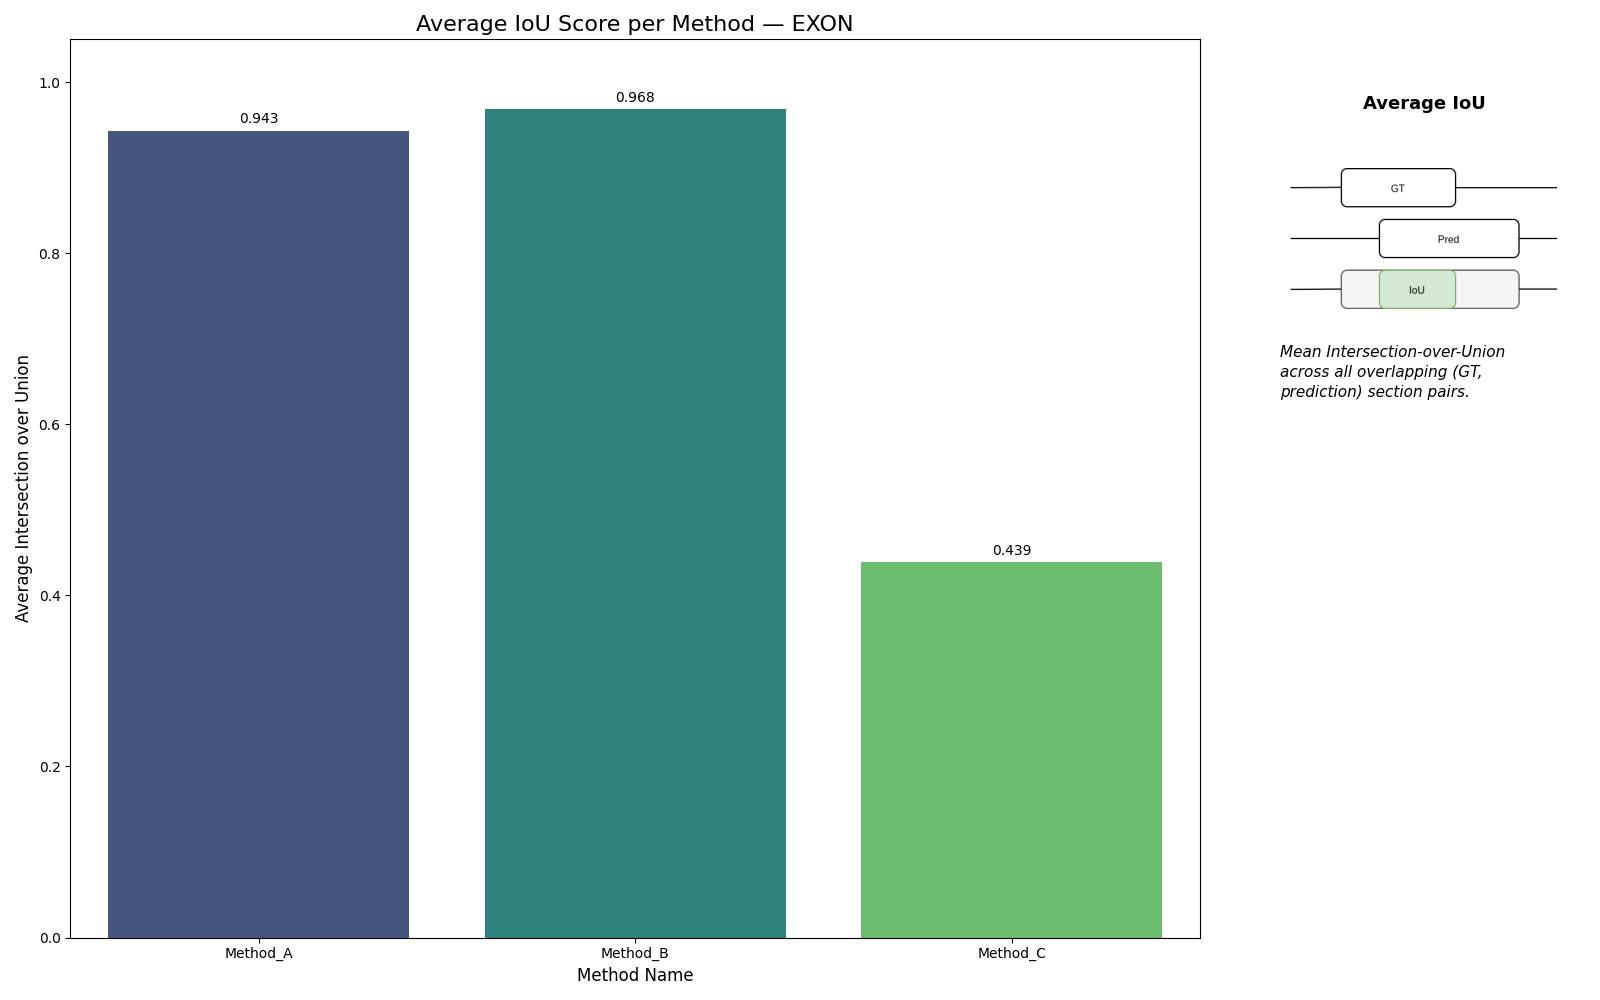
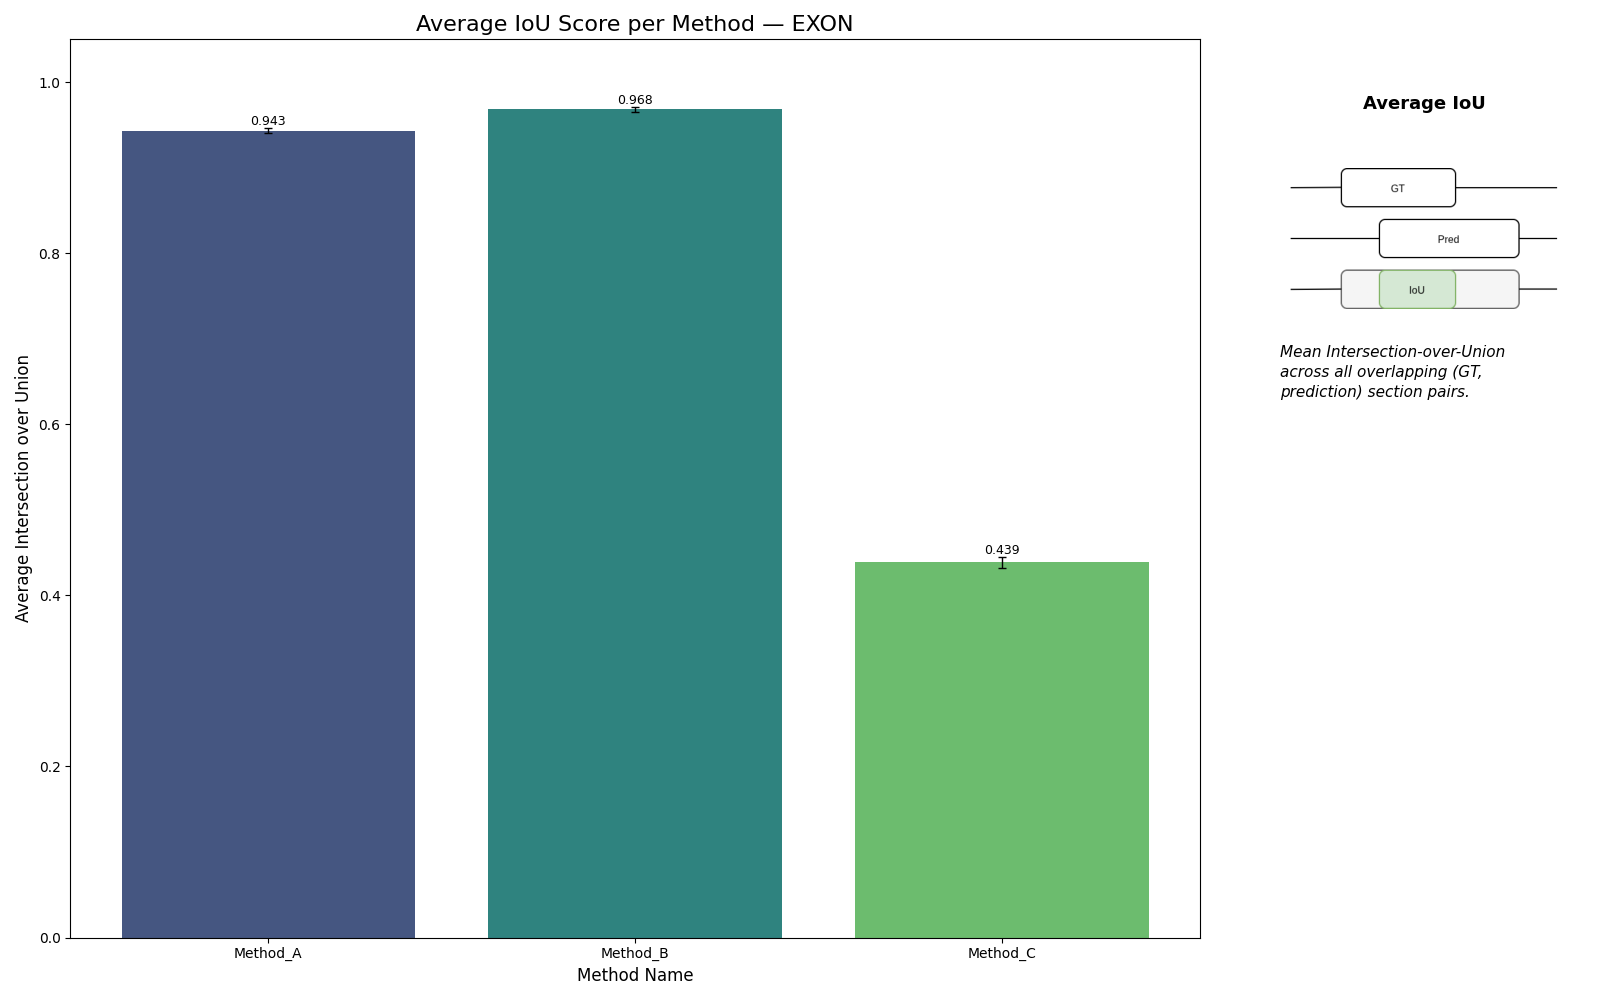
add std error to precision recall metrics

diff --git a/src/dna_segmentation_benchmark/eval/utils.py b/src/dna_segmentation_benchmark/eval/utils.py
@@ -33,20 +33,75 @@ def recursive_merge(target: dict, source: dict) -> dict:
     return target
 
 
-def _compute_summary_statistics(tp: list, fn: list = None, fp: list = None, tn: list = None) -> dict:
-    """Compute precision and recall from aggregated confusion counts."""
+def _compute_summary_statistics(
+    tp: list, fn: list = None, fp: list = None, tn: list = None, n_bootstrap: int = 1000
+) -> dict:
+    """Compute precision and recall with bootstrap standard errors.
+
+    Bootstrap resamples sequences (each element of tp/fp/fn is one sequence)
+    to estimate the standard error of the micro-averaged precision and recall.
+    f1_stderr is included when both fp and fn are provided.
+    """
     precision = None
     recall = None
-    if tp is not None and fp is not None:
-        total_tp = sum(tp)
-        total_fp = sum(fp)
-        precision = total_tp / (total_tp + total_fp) if (total_tp + total_fp) > 0 else 0
-    if tp is not None and fn is not None:
-        total_tp = sum(tp)
-        total_fn = sum(fn)
-        recall = total_tp / (total_tp + total_fn) if (total_tp + total_fn) > 0 else 0
+    precision_stderr = None
+    recall_stderr = None
+    f1_stderr = None
 
-    return {"precision": precision, "recall": recall}
+    if tp is None:
+        return {"precision": None, "recall": None, "precision_stderr": None, "recall_stderr": None}
+
+    tp_arr = np.array(tp, dtype=float)
+    fp_arr = np.array(fp, dtype=float) if fp is not None else None
+    fn_arr = np.array(fn, dtype=float) if fn is not None else None
+    n = len(tp_arr)
+
+    if fp_arr is not None:
+        total_tp, total_fp = float(tp_arr.sum()), float(fp_arr.sum())
+        precision = total_tp / (total_tp + total_fp) if (total_tp + total_fp) > 0 else 0.0
+
+    if fn_arr is not None:
+        total_tp, total_fn = float(tp_arr.sum()), float(fn_arr.sum())
+        recall = total_tp / (total_tp + total_fn) if (total_tp + total_fn) > 0 else 0.0
+
+    if n >= 2:
+        rng = np.random.default_rng(42)
+        idx = rng.integers(0, n, size=(n_bootstrap, n))
+        boot_tp = tp_arr[idx].sum(axis=1)
+
+        boot_prec = None
+        boot_rec = None
+
+        if fp_arr is not None:
+            boot_fp = fp_arr[idx].sum(axis=1)
+            denom = boot_tp + boot_fp
+            boot_prec = np.where(denom > 0, boot_tp / np.where(denom > 0, denom, 1.0), precision or 0.0)
+            precision_stderr = float(np.std(boot_prec))
+
+        if fn_arr is not None:
+            boot_fn = fn_arr[idx].sum(axis=1)
+            denom = boot_tp + boot_fn
+            boot_rec = np.where(denom > 0, boot_tp / np.where(denom > 0, denom, 1.0), recall or 0.0)
+            recall_stderr = float(np.std(boot_rec))
+
+        if boot_prec is not None and boot_rec is not None:
+            denom_f1 = boot_prec + boot_rec
+            boot_f1 = np.where(
+                denom_f1 > 0,
+                2 * boot_prec * boot_rec / np.where(denom_f1 > 0, denom_f1, 1.0),
+                0.0,
+            )
+            f1_stderr = float(np.std(boot_f1))
+
+    result = {
+        "precision": precision,
+        "recall": recall,
+        "precision_stderr": precision_stderr,
+        "recall_stderr": recall_stderr,
+    }
+    if f1_stderr is not None:
+        result["f1_stderr"] = f1_stderr
+    return result
 
 
 def _compute_distribution_stats(values: list, is_abs: bool = True) -> dict:

diff --git a/src/dna_segmentation_benchmark/plotting/metrics/ml.py b/src/dna_segmentation_benchmark/plotting/metrics/ml.py
@@ -3,11 +3,12 @@ from typing import Optional
 from pathlib import Path
 
 import matplotlib.pyplot as plt
+import numpy as np
 import pandas as pd
 import seaborn as sns
 
 from ..config import PlotMetadata, DEFAULT_FIG_SIZE
-from ..utils import _save_figure, _add_pictogram_panel
+from ..utils import _save_figure, _add_pictogram_panel, _annotate_bar_with_errorbar
 
 logger = logging.getLogger(__name__)
 
@@ -65,13 +66,41 @@ def plot_ml_metrics_bar(
     figures: dict[str, plt.Figure] = {}
 
     for level in melted["metric_key"].unique():
-        level_df = melted[melted["metric_key"] == level].copy()
+        full_level_df = melted[melted["metric_key"] == level].copy()
+
+        # Separate bootstrap stderr entries from the bar-plot metrics
+        is_stderr = full_level_df["metric"].str.endswith("_stderr")
+        stderr_df = full_level_df[is_stderr]
+        level_df = full_level_df[~is_stderr].copy()
+
+        # Build lookup: (method_name, base_metric) -> stderr value
+        stderr_lookup: dict[tuple, float] = {}
+        for _, row in stderr_df.iterrows():
+            base = row["metric"].replace("_stderr", "")
+            v = row["Score"]
+            if v is not None and not (isinstance(v, float) and np.isnan(v)):
+                stderr_lookup[(row["method_name"], base)] = float(v)
+
+        method_order = list(level_df["method_name"].unique())
+        metric_order = list(level_df["metric"].unique())
 
         fig, ax = plt.subplots(figsize=DEFAULT_FIG_SIZE)
-        sns.barplot(data=level_df, y="Score", x="metric", hue="method_name", ax=ax)
+        sns.barplot(
+            data=level_df,
+            y="Score",
+            x="metric",
+            hue="method_name",
+            order=metric_order,
+            hue_order=method_order,
+            errorbar=None,
+            ax=ax,
+        )
 
-        for container in ax.containers:
-            ax.bar_label(container, label_type="edge", padding=3, fmt="%.3f")
+        bar_containers = list(ax.containers)
+        for container, method in zip(bar_containers, method_order):
+            for patch, metric_name in zip(container.patches, metric_order):
+                se = stderr_lookup.get((method, metric_name))
+                _annotate_bar_with_errorbar(ax, patch, patch.get_height(), se)
 
         ax.set_title(f"{level} — {class_name}", fontsize=16)
         ax.set_xlabel("Metric", fontsize=12)

diff --git a/src/dna_segmentation_benchmark/plotting/utils.py b/src/dna_segmentation_benchmark/plotting/utils.py
@@ -1,6 +1,7 @@
 import textwrap
 from pathlib import Path
 
+import numpy as np
 import seaborn as sns
 from matplotlib import pyplot as plt
 from matplotlib.offsetbox import OffsetImage, AnnotationBbox
@@ -30,6 +31,48 @@ def spezi_palette(n: int | None = None) -> list[tuple[float, float, float]]:
     if n is not None:
         ordered = ordered[:n]
     return sns.color_palette(ordered)
+
+
+def _annotate_bar_with_errorbar(
+    ax: plt.Axes,
+    patch,
+    height: float,
+    se: float | None,
+    fmt: str = "%.3f",
+    text_fontsize: float = 9.0,
+) -> None:
+    """Draw an error bar and smart-positioned value label for one bar patch.
+
+    Label placement rule (in rendered pixels):
+      - error bar height < 2 text lines → label above the error bar cap
+      - error bar height >= 2 text lines → label inside the bar, slightly left,
+        rotated 90° so it doesn't overlap the error bar
+    When se is None the label is placed above the bar with standard padding.
+    """
+    bar_x = patch.get_x() + patch.get_width() / 2
+    label_text = fmt % height
+
+    if se is not None and height > 0:
+        ax.errorbar(bar_x, height, yerr=se, fmt="none", color="black", capsize=3, linewidth=1, zorder=5)
+
+        _, pix_bar = ax.transData.transform((bar_x, height))
+        _, pix_top = ax.transData.transform((bar_x, height + se))
+        errbar_px = pix_top - pix_bar
+        two_lines_px = 2.0 * text_fontsize * ax.figure.dpi / 72.0
+
+        if errbar_px < two_lines_px:
+            ax.text(bar_x, height + se, label_text, ha="center", va="bottom", fontsize=text_fontsize)
+        else:
+            ax.text(
+                bar_x - patch.get_width() * 0.15,
+                height * 0.5,
+                label_text,
+                ha="center", va="center",
+                fontsize=text_fontsize,
+                rotation=90,
+            )
+    else:
+        ax.text(bar_x, height, label_text, ha="center", va="bottom", fontsize=text_fontsize)
 
 
 def _save_figure(fig: plt.Figure, save_path: Path, logger) -> None:

diff --git a/src/dna_segmentation_benchmark/plotting/metrics/iou.py b/src/dna_segmentation_benchmark/plotting/metrics/iou.py
@@ -3,11 +3,12 @@ from typing import Optional
 from pathlib import Path
 
 import matplotlib.pyplot as plt
+import numpy as np
 import pandas as pd
 import seaborn as sns
 
 from ..config import PlotMetadata, DEFAULT_FIG_SIZE
-from ..utils import _save_figure, _add_pictogram_panel
+from ..utils import _save_figure, _add_pictogram_panel, _annotate_bar_with_errorbar
 
 logger = logging.getLogger(__name__)
 
@@ -52,13 +53,23 @@ def plot_iou_metrics(
     figures = []
 
     # --- Plot 1: Average IoU Score per Method (Bar Plot) ---
-    avg_scores = exploded.groupby("method_name")["IoU"].mean().reset_index()
+    agg = (
+        exploded.groupby("method_name")["IoU"]
+        .agg(["mean", "std", "count"])
+        .reset_index()
+        .rename(columns={"mean": "IoU"})
+    )
+    agg["sem"] = agg["std"] / np.sqrt(agg["count"])
 
     fig1, ax1 = plt.subplots(figsize=DEFAULT_FIG_SIZE)
-    sns.barplot(data=avg_scores, x="method_name", y="IoU", hue="method_name", ax=ax1, palette="viridis", legend=False)
+    sns.barplot(
+        data=agg, x="method_name", y="IoU", hue="method_name",
+        ax=ax1, palette="viridis", legend=False, errorbar=None,
+    )
 
-    for container in ax1.containers:
-        ax1.bar_label(container, fmt="%.3f", padding=3)
+    bar_containers = list(ax1.containers)
+    for container, (_, row) in zip(bar_containers, agg.iterrows()):
+        _annotate_bar_with_errorbar(ax1, container.patches[0], row["IoU"], row["sem"])
 
     ax1.set_title(f"Average IoU Score per Method — {class_name}", fontsize=16)
     ax1.set_ylabel("Average Intersection over Union", fontsize=12)

diff --git a/src/dna_segmentation_benchmark/plotting/summary_stat_plotting.py b/src/dna_segmentation_benchmark/plotting/summary_stat_plotting.py
@@ -287,6 +287,14 @@ def compare_multiple_predictions(
                     _combined = {
                         _PR_DISPLAY[k]: v.get(_measure, 0.0) for k, v in _scores.items() if isinstance(v, dict)
                     }
+                    # Propagate bootstrap stderrs alongside scores using the same
+                    # display-name key with a "_stderr" suffix so plot_ml_metrics_bar
+                    # can separate them and render error bars.
+                    for k, v in _scores.items():
+                        if isinstance(v, dict):
+                            se = v.get(f"{_measure}_stderr")
+                            if se is not None:
+                                _combined[f"{_PR_DISPLAY[k]}_stderr"] = se
                     _pr_rows.append(
                         {
                             "method_name": _method,
